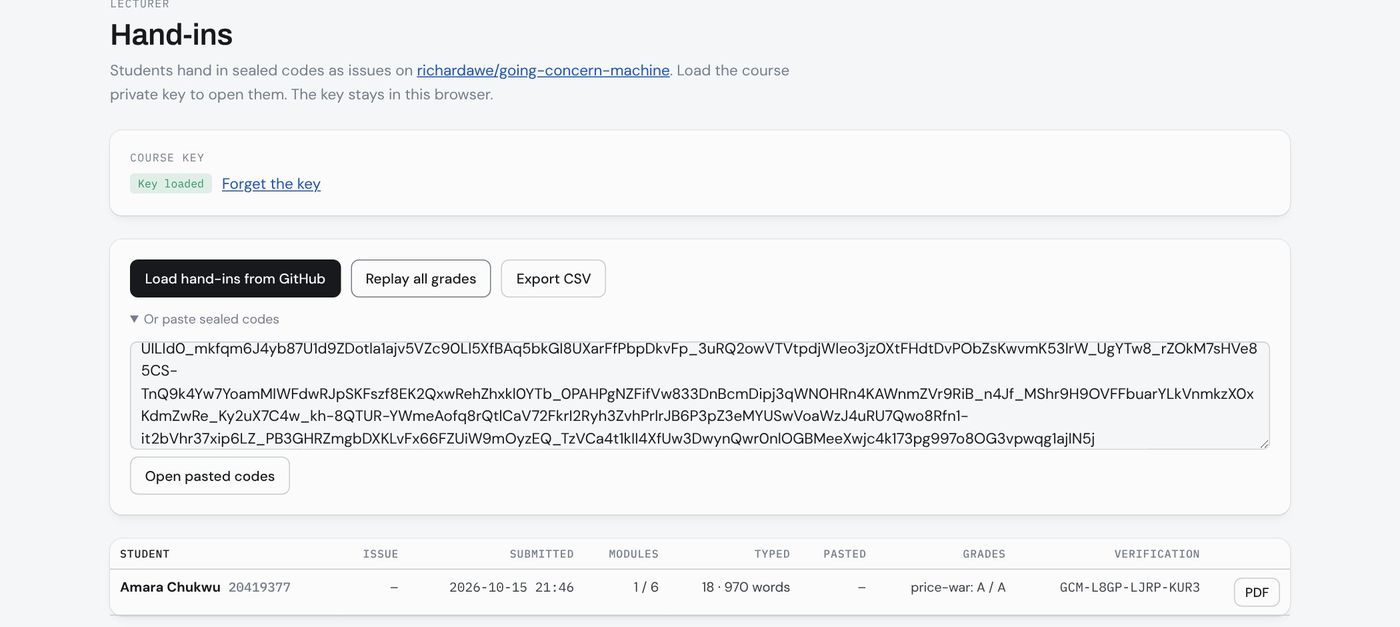
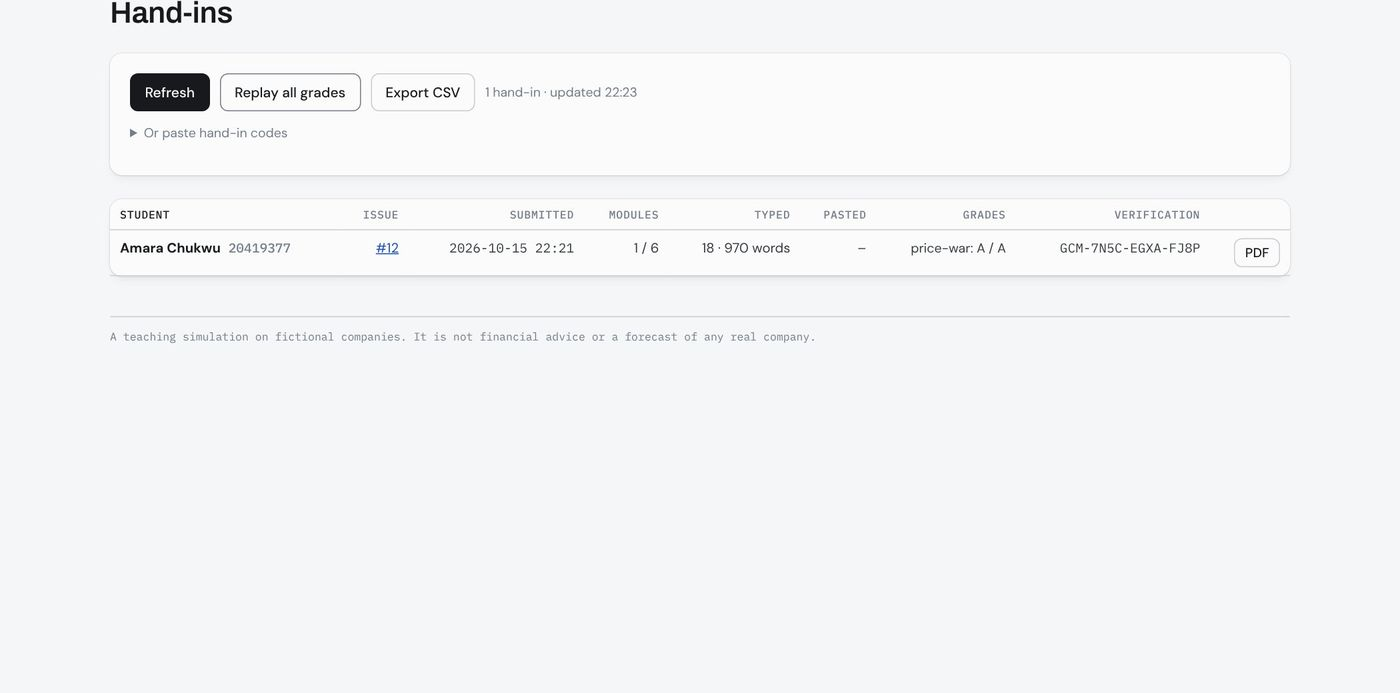
Landing page: current lecturer and hand-in screenshots
Claude-Session: https://claude.ai/code/session_01MkjXz2xHUTL2tKtducE8V2

diff --git a/public/universities/index.html b/public/universities/index.html
@@ -152,7 +152,7 @@ tr:last-child td{border-bottom:0}
       <figure class="shot" style="margin:0"><img src="img/check.jpg" alt="End-of-module check with multiple-choice feedback and written answers." loading="lazy"><figcaption>The end-of-module check: instant feedback, then model answers for the written questions.</figcaption></figure>
       <figure class="shot" style="margin:0"><img src="img/handin.jpg" alt="Hand-in page: the work is handed in and the PDF downloaded for Canvas." loading="lazy"><figcaption>Hand-in: the work goes to the lecturer’s page in one step, and downloads as a PDF for Canvas.</figcaption></figure>
       <figure class="shot" style="margin:0"><div class="pdfs"><img src="img/pdf-1.jpg" alt="PDF cover page with the verification code and a summary per module." loading="lazy"><img src="img/pdf-2.jpg" alt="PDF module page with decisions, reasons and the concepts in the student’s own words." loading="lazy"></div><figcaption>The submission PDF: a cover with the verification code, then every decision, reason and written answer.</figcaption></figure>
-      <figure class="shot" style="margin:0"><img src="img/lecturer.jpg" alt="Lecturer view listing a hand-in with modules completed, typed words, grades and verification code." loading="lazy"><figcaption>The lecturer view: every hand-in opened and re-graded, with word counts, paste flags and a CSV export.</figcaption></figure>
+      <figure class="shot" style="margin:0"><img src="img/lecturer.jpg" alt="Lecturer view listing a hand-in with modules completed, typed words, grades and verification code." loading="lazy"><figcaption>The lecturer view: hand-ins appear as soon as students submit, re-graded, with word counts, paste flags and a CSV export.</figcaption></figure>
     </div>
   </section>
 
